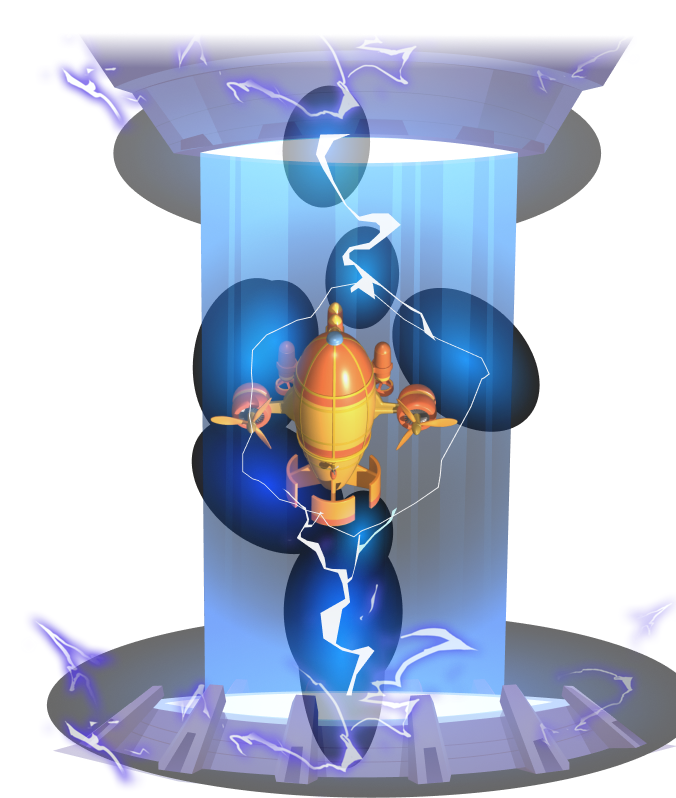
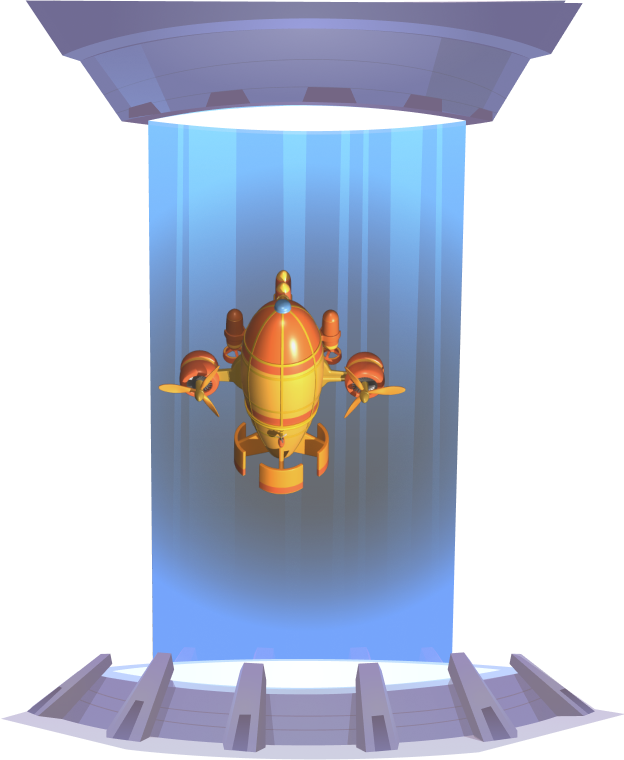
Update Milestone

diff --git a/index.html b/index.html
@@ -639,23 +639,6 @@
         </div>
         <div class="iw-milestone-content">
           <div class="iw-milestone-core">
-            <img
-              src="assets/images/milestone_core.png"
-              alt=""
-              class="iw-milestone-core"
-              id="milestone_core_mobile"
-            />
-            <img
-              src="assets/images/milestone_thuyquan_1.png"
-              alt=""
-              class="iw-milestone-actor-1"
-            />
-            <img
-              src="assets/images/milestone_khongquan_1.png"
-              alt=""
-              class="iw-milestone-actor-2"
-            />
-
             <div class="iw-milestone-box box-1">
               <div class="iw-milestone-box-content">
                 <img src="assets/images/milestone_box_1.png" alt="" />

diff --git a/assets/css/style.scss b/assets/css/style.scss
@@ -1738,26 +1738,6 @@ $color-highlight2: #dd7041;
     height: auto;
   }
 
-  &-actor {
-    &-1 {
-      position: absolute;
-      bottom: -1.98vw;
-      left: 0;
-      z-index: 2;
-      width: 14.68vw;
-      height: auto;
-    }
-
-    &-2 {
-      position: absolute;
-      bottom: -2.44vw;
-      right: -3.125vw;
-      z-index: 2;
-      width: 17.77vw;
-      height: auto;
-    }
-  }
-
   &-box {
     position: absolute;
     z-index: 2;

diff --git a/assets/css/_infinity-war.scss b/assets/css/_infinity-war.scss
@@ -25,6 +25,7 @@
   .magic-book {
     margin-top: -289px;
     z-index: -1;
+    mix-blend-mode: screen;
   }
 
   .actor {
